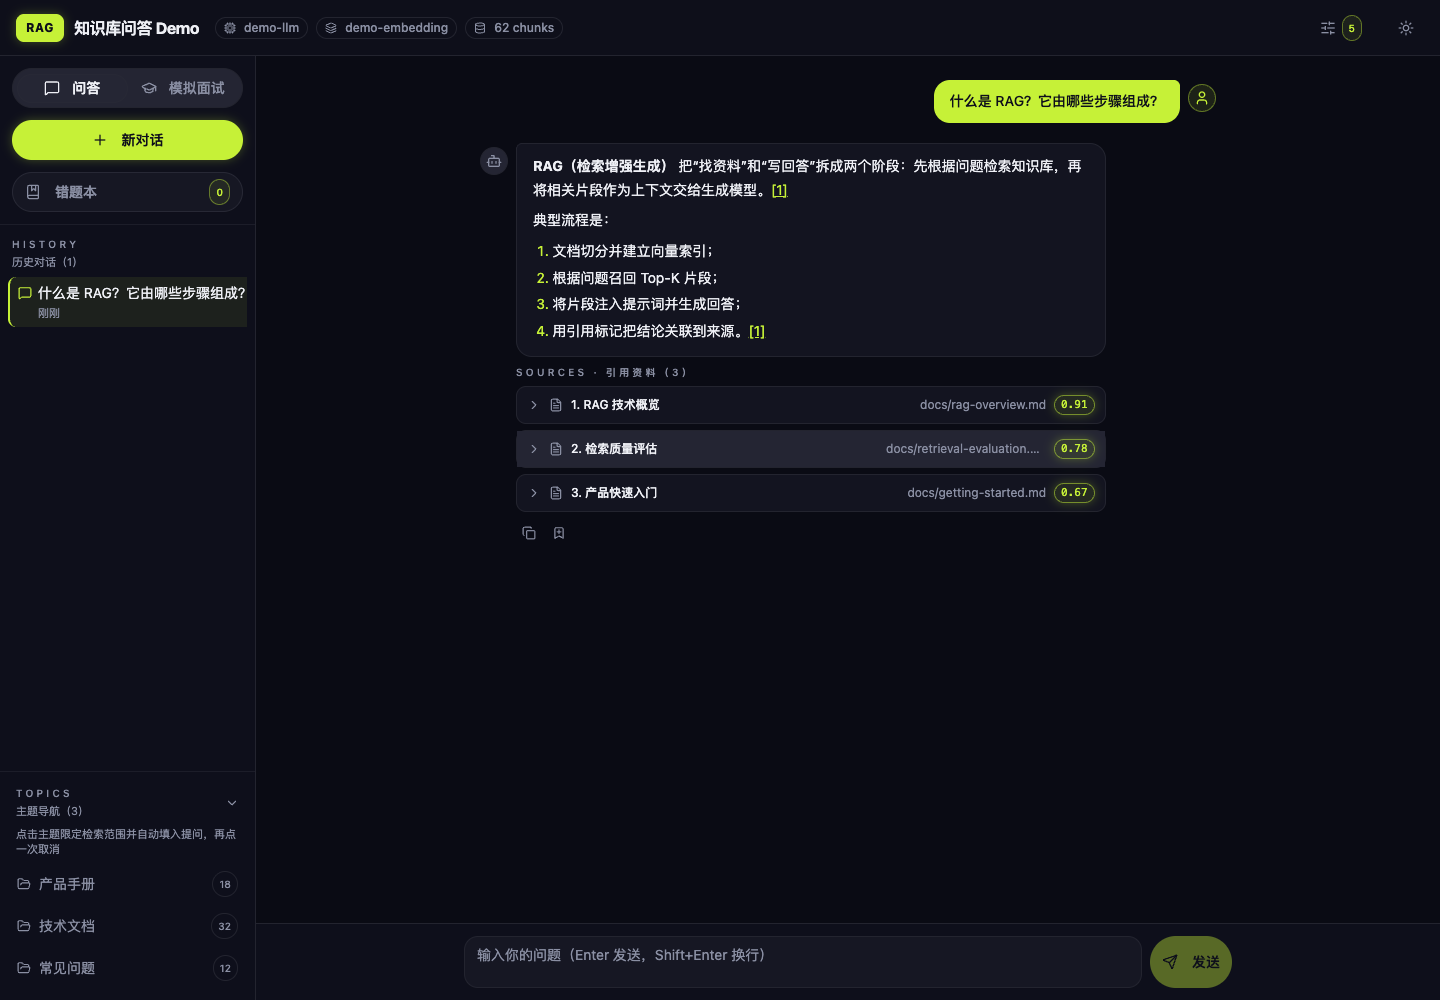
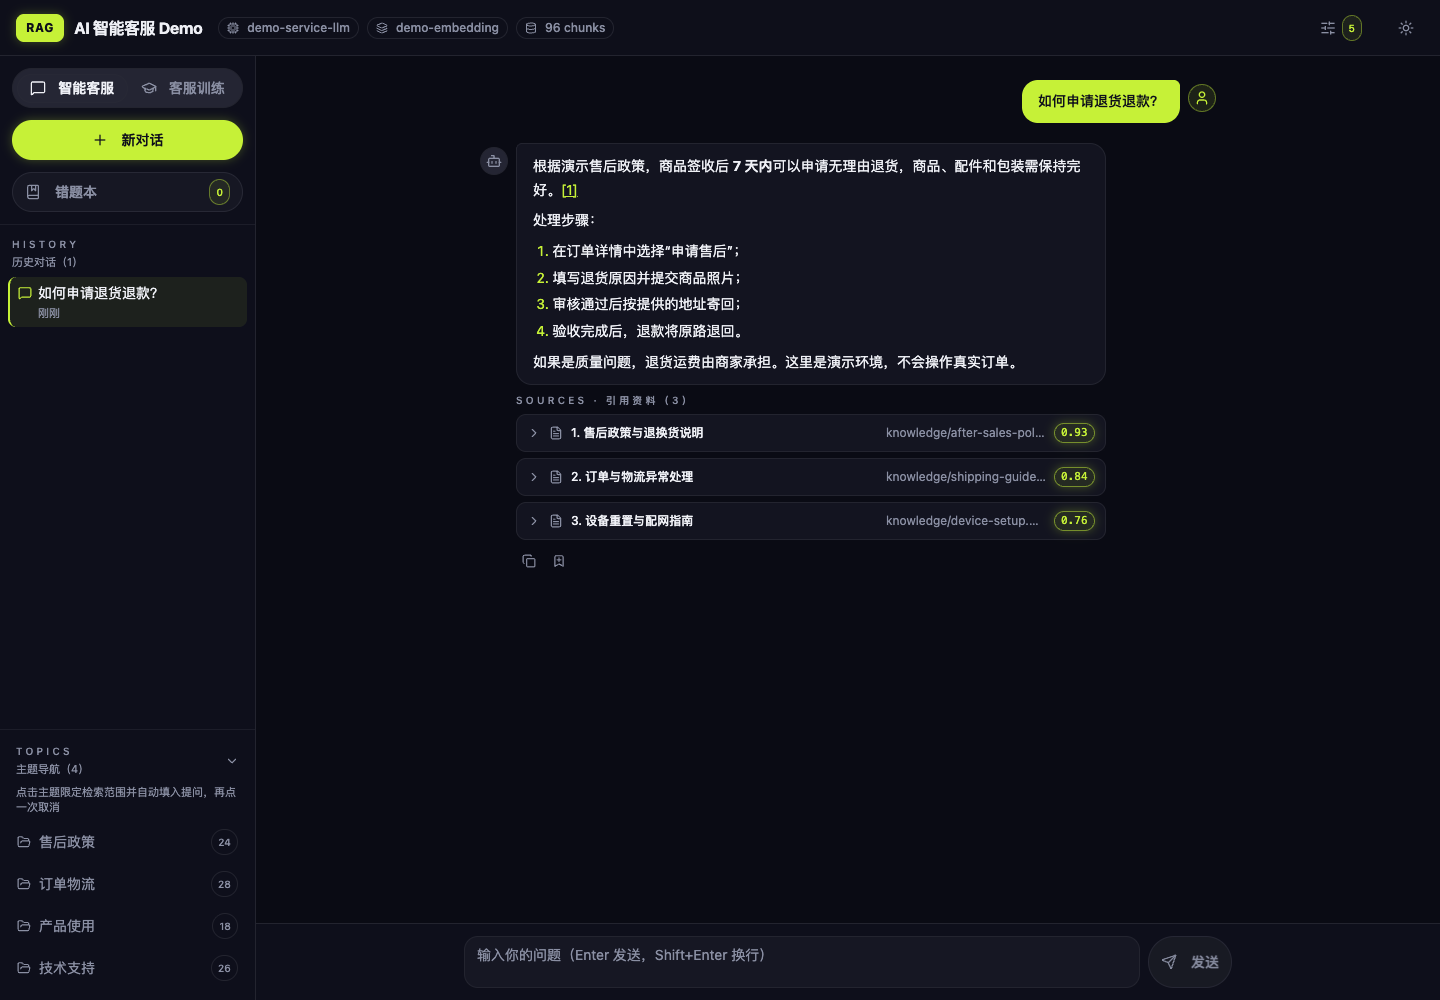
feat: 整理 AI 智能客服场景与演示内容

diff --git a/src/pages/Home.test.tsx b/src/pages/Home.test.tsx
@@ -150,11 +150,11 @@ describe('Home 请求生命周期', () => {
     })
 
     render(<Home />)
-    // 切到模拟面试模式（Radix Tabs 在 mouseDown 时激活）后从空状态直接开考：
+    // 切到客服训练模式（Radix Tabs 在 mouseDown 时激活）后从空状态直接开考：
     // hideUser，会话里只有 assistant 错误消息
     // Tabs 由 meta.modes 驱动，需等 meta 加载
-    fireEvent.mouseDown(await screen.findByRole('tab', { name: /模拟面试/ }))
-    fireEvent.click(await screen.findByRole('button', { name: /综合模拟面试/ }))
+    fireEvent.mouseDown(await screen.findByRole('tab', { name: /客服训练/ }))
+    fireEvent.click(await screen.findByRole('button', { name: /综合客服考核/ }))
 
     await screen.findByText(/检索失败/)
     // 流式收尾完成：停止按钮消失、发送按钮回归
@@ -462,9 +462,9 @@ describe('Home 错题手动收藏：题答配对', () => {
       })
 
     render(<Home />)
-    // 切到模拟面试模式（Radix Tabs 在 mouseDown 时激活）后从空状态直接开考
-    fireEvent.mouseDown(await screen.findByRole('tab', { name: /模拟面试/ }))
-    fireEvent.click(await screen.findByRole('button', { name: /综合模拟面试/ }))
+    // 切到客服训练模式（Radix Tabs 在 mouseDown 时激活）后从空状态直接开考
+    fireEvent.mouseDown(await screen.findByRole('tab', { name: /客服训练/ }))
+    fireEvent.click(await screen.findByRole('button', { name: /综合客服考核/ }))
     await screen.findByText(/什么是 RAG？请简述其核心流程/)
     await waitFor(() =>
       expect(screen.getByRole('button', { name: '发送' })).toBeInTheDocument(),
@@ -627,7 +627,7 @@ describe('Home 元数据驱动', () => {
     // 无面试模式：Tabs / 错题本入口 / 面试引导全部隐藏
     expect(screen.queryByRole('tab')).not.toBeInTheDocument()
     expect(screen.queryByRole('button', { name: /错题本/ })).not.toBeInTheDocument()
-    expect(screen.queryByRole('button', { name: /综合模拟面试/ })).not.toBeInTheDocument()
+    expect(screen.queryByRole('button', { name: /综合客服考核/ })).not.toBeInTheDocument()
   })
 
   it('modes 含 interview：Tabs/错题本/引导卡渲染，引导卡数据来自 meta.interviewGuides', async () => {
@@ -642,11 +642,11 @@ describe('Home 元数据驱动', () => {
     mockStreamChat.mockImplementationOnce(async () => {})
 
     render(<Home />)
-    expect(await screen.findByRole('tab', { name: /模拟面试/ })).toBeInTheDocument()
+    expect(await screen.findByRole('tab', { name: /客服训练/ })).toBeInTheDocument()
     expect(screen.getByRole('button', { name: /错题本/ })).toBeInTheDocument()
 
     // 面试引导卡来自 meta.interviewGuides，点击后以该主题开考
-    fireEvent.mouseDown(screen.getByRole('tab', { name: /模拟面试/ }))
+    fireEvent.mouseDown(screen.getByRole('tab', { name: /客服训练/ }))
     const guideCard = await screen.findByText('Rust 专题面试')
     expect(screen.getByText('限定 rust 主题出题')).toBeInTheDocument()
     fireEvent.click(guideCard)
@@ -655,7 +655,7 @@ describe('Home 元数据驱动', () => {
     expect(mockStreamChat.mock.calls[0][0].topic).toBe('rust')
   })
 
-  it('meta 请求失败：降级默认名「知识库问答」，可正常发送', async () => {
+  it('meta 请求失败：降级默认名「AI 智能客服」，可正常发送', async () => {
     mockFetchMeta.mockRejectedValueOnce(new Error('网络错误'))
     mockStreamChat.mockImplementationOnce(async (_req, _signal, handlers) => {
       handlers.onToken('降级路径的回答')
@@ -663,8 +663,8 @@ describe('Home 元数据驱动', () => {
     })
 
     render(<Home />)
-    expect((await screen.findAllByText('知识库问答')).length).toBeGreaterThanOrEqual(1)
-    await waitFor(() => expect(document.title).toBe('知识库问答'))
+    expect((await screen.findAllByText('AI 智能客服')).length).toBeGreaterThanOrEqual(1)
+    await waitFor(() => expect(document.title).toBe('AI 智能客服'))
     // 默认 modes ['qa']：无 Tabs，可直接提问
     expect(screen.queryByRole('tab')).not.toBeInTheDocument()
     sendQuestion('降级后还能问吗')

diff --git a/src/components/ChatArea.tsx b/src/components/ChatArea.tsx
@@ -185,20 +185,20 @@ export function ChatArea({
                 <div className="rounded-xl border border-border bg-card p-5 text-left transition-colors duration-200 hover:border-primary/50">
                   <div className="flex items-center gap-2 font-semibold text-foreground">
                     <MessageSquare className="h-4 w-4 text-primary" />
-                    问答模式
+                    智能客服
                   </div>
                   <p className="mt-2 text-xs leading-relaxed text-muted-foreground">
-                    直接提问，系统从知识库检索相关内容并生成带引用的回答。点击左侧主题可快速填入提问。
+                    客户直接提问，系统从企业知识库检索政策与产品资料，生成带来源的回答。可点击主题限定咨询范围。
                   </p>
                 </div>
                 {hasInterview && (
                   <div className="rounded-xl border border-border bg-card p-5 text-left transition-colors duration-200 hover:border-primary/50">
                     <div className="flex items-center gap-2 font-semibold text-foreground">
                       <GraduationCap className="h-4 w-4 text-primary" />
-                      模拟面试模式
+                      客服训练
                     </div>
                     <p className="mt-2 text-xs leading-relaxed text-muted-foreground">
-                      系统扮演面试官出题，你作答后会得到点评并进入下一题。可先在左侧选择主题限定出题范围。
+                      系统模拟真实客服考核题，作答后给出标准口径与解析，并自动记录需要复习的题目。
                     </p>
                   </div>
                 )}
@@ -260,7 +260,7 @@ export function ChatArea({
                       className="glow-primary h-11 rounded-full px-8 font-semibold transition-all duration-200 hover:brightness-110"
                     >
                       <Play className="mr-2 h-4 w-4" />
-                      综合模拟面试（不限主题）
+                      综合客服考核（不限主题）
                     </Button>
                   </div>
                 )

diff --git a/src/components/SidePanel.tsx b/src/components/SidePanel.tsx
@@ -67,14 +67,14 @@ export function SidePanelContent({
               className="rounded-full text-muted-foreground transition-all duration-200 data-[state=active]:bg-primary data-[state=active]:font-semibold data-[state=active]:text-primary-foreground data-[state=active]:shadow-none"
             >
               <MessageSquare className="mr-1.5 h-3.5 w-3.5" />
-              问答
+              智能客服
             </TabsTrigger>
             <TabsTrigger
               value="interview"
               className="rounded-full text-muted-foreground transition-all duration-200 data-[state=active]:bg-primary data-[state=active]:font-semibold data-[state=active]:text-primary-foreground data-[state=active]:shadow-none"
             >
               <GraduationCap className="mr-1.5 h-3.5 w-3.5" />
-              模拟面试
+              客服训练
             </TabsTrigger>
           </TabsList>
         </Tabs>

diff --git a/src/components/MistakesPanel.tsx b/src/components/MistakesPanel.tsx
@@ -235,7 +235,7 @@ export function MistakesPanel({ open, onOpenChange, mistakes, kbId, onRetry }: M
               <BookMarked className="h-8 w-8 text-muted-foreground/40" />
               <p className="text-sm text-muted-foreground">错题本还是空的</p>
               <p className="text-xs leading-relaxed text-muted-foreground">
-                模拟面试中答错或表示不会的题会自动收录到这里；也可以点击回答下方的「加入错题本」手动收藏。
+                客服训练中答错或表示不会的题会自动收录到这里；也可以点击回答下方的「加入错题本」手动收藏。
               </p>
             </div>
           ) : visible.length === 0 ? (

diff --git a/index.html b/index.html
@@ -4,9 +4,9 @@
     <meta charset="UTF-8" />
     <meta name="viewport" content="width=device-width, initial-scale=1.0" />
     <meta name="theme-color" content="#11131f" />
-    <meta name="description" content="后端无关的 RAG 聊天工作台，支持流式问答、来源引用、模拟面试和错题复习。" />
+    <meta name="description" content="后端无关的 AI 智能客服工作台，支持流式咨询、来源引用、客服训练和错题复习。" />
     <link rel="icon" type="image/svg+xml" href="/favicon.svg" />
-    <title>知识库问答</title>
+    <title>AI 智能客服</title>
     <script>
       // 防闪烁：首帧前按存储/系统偏好预设 dark class
       try {

diff --git a/src/components/MistakesPanel.test.tsx b/src/components/MistakesPanel.test.tsx
@@ -35,7 +35,7 @@ describe('MistakesPanel', () => {
   it('空列表显示友好空状态', () => {
     render(<MistakesPanel open onOpenChange={noop} kbId="kb1" mistakes={[]} onRetry={noop} />)
     expect(screen.getByText('错题本还是空的')).toBeInTheDocument()
-    expect(screen.getByText(/模拟面试中答错或表示不会的题会自动收录/)).toBeInTheDocument()
+    expect(screen.getByText(/客服训练中答错或表示不会的题会自动收录/)).toBeInTheDocument()
   })
 
   it('列表项显示题目 / 综合标签（topic=null）/ 复习次数，答案默认折叠', () => {

diff --git a/src/pages/Home.tsx b/src/pages/Home.tsx
@@ -40,7 +40,7 @@ const HISTORY_LIMIT = 20
 /** meta 不可用时保留基础问答能力，本地数据使用独立的 default 命名空间。 */
 const FALLBACK_META: KnowledgeMeta = {
   kbId: 'default',
-  appName: '知识库问答',
+  appName: 'AI 智能客服',
   tagline: '',
   modes: ['qa'],
   examples: [],

diff --git a/README.md b/README.md
@@ -1,8 +1,8 @@
-# RAG Chat UI
+# AI 智能客服工作台（RAG Chat UI）
 
-一个后端无关、可独立运行的 RAG 聊天工作台。基于 **React 19 + TypeScript + Vite + Tailwind CSS + shadcn/ui**，支持流式回答、来源引用、模拟面试、错题复习与本地会话管理。
+一个后端无关、可独立运行的 **AI 智能客服前端**。基于 **React 19 + TypeScript + Vite + Tailwind CSS + shadcn/ui**，支持售后咨询、订单物流、产品指导、来源引用、客服训练与本地会话管理。
 
-项目只约定一组简单的 HTTP / SSE 接口，不绑定特定模型、向量数据库或知识库。内置零依赖 Mock API，克隆后无需准备模型或后端即可体验完整流程。
+项目只约定一组简单的 HTTP / SSE 接口，不绑定特定模型、向量数据库或企业知识库。内置零依赖客服演示 API，克隆后无需准备模型或后端即可体验完整流程，也可以接入自己的 RAG 服务。
 
 ## 界面预览
 
@@ -23,15 +23,15 @@
 
 | 能力 | 说明 |
 | --- | --- |
-| 流式问答 | 通过 SSE 展示检索、生成、降级阶段，逐字渲染回答，可随时停止 |
-| 来源引用 | 回答中的 `[n]` 可定位到来源卡片，展示相关度并提示低相关结果 |
-| 模拟面试 | 支持综合或主题面试、连续出题、答案解析与“再考我一次” |
-| 错题本 | 自动收录与手动收藏，支持主题筛选、复习计数和掌握状态管理 |
-| 会话管理 | 新建、切换、删除历史会话；最多保存 50 个会话，刷新后自动恢复 |
-| 知识库隔离 | 以 `kbId` 隔离不同知识库的会话和错题，避免本地数据互相污染 |
-| 主题与检索设置 | 主题过滤、Top-K 1–10 调整、明暗主题切换并记忆偏好 |
+| 智能咨询 | 通过 SSE 展示检索、生成、降级阶段，逐字回答售后、物流与产品问题，可随时停止 |
+| 来源可核验 | 回答中的 `[n]` 可定位到政策或产品资料，展示相关度并提示低相关结果 |
+| 客服训练 | 支持综合或专题考核、连续出题、标准口径解析与“再考我一次” |
+| 错题复习 | 自动收录与手动收藏，支持主题筛选、复习计数和掌握状态管理 |
+| 会话管理 | 新建、切换、删除历史咨询；最多保存 50 个会话，刷新后自动恢复 |
+| 知识库隔离 | 以 `kbId` 隔离不同企业或业务线的会话和错题，避免本地数据互相污染 |
+| 业务主题与检索 | 按售后政策、订单物流等主题过滤，Top-K 1–10 调整，支持明暗主题 |
 | 健壮交互 | 请求所有权隔离、失败重试、手动停止、中文输入法与移动端适配 |
-| 元数据驱动 | 应用名、标语、模式、示例问题和面试引导均由后端 `/api/meta` 提供 |
+| 元数据驱动 | 品牌、标语、业务模式、示例问题和训练引导均由后端 `/api/meta` 提供 |
 
 ## 30 秒本地体验
 
@@ -48,10 +48,10 @@ npm run dev:mock
 
 可以尝试：
 
-1. 点击示例问题，观察流式回答与来源引用；
-2. 切换“模拟面试”，开始综合或专题面试；
-3. 回答“我不会”，查看解析并打开错题本复习；
-4. 新建对话、切换主题或调整 Top-K，刷新页面验证状态恢复。
+1. 点击“如何申请退货退款？”，观察流式回答与政策来源；
+2. 选择“订单物流”主题，咨询物流超过 48 小时未更新的处理方式；
+3. 切换“客服训练”，开始综合或专题考核并查看标准口径；
+4. 打开错题本复习，或新建咨询、调整 Top-K 后刷新页面验证状态恢复。
 
 ## 接入自己的 RAG 后端
 
@@ -68,6 +68,10 @@ npm run dev
 开发服务器会把 `/api/*` 代理到 `VITE_API_TARGET`，因此前端不需要处理跨域。生产构建使用同源 `/api/*`，请在网关或 Web 服务器上将这组路径反向代理到后端。
 
 > 本项目是前端仓库，不包含文档切分、Embedding、向量检索或模型推理实现。
+
+## 演示边界
+
+内置售后政策、商品和订单内容均为虚构演示数据，不能作为真实业务承诺。当前版本**不连接真实订单、支付、人工坐席或工单系统**，也不会执行退款、改单等操作；这些动作需要由你的后端鉴权并对接相应业务系统。
 
 ## 常用命令
 

diff --git a/docs/design.md b/docs/design.md
@@ -15,16 +15,16 @@
 
 ```json
 {
-  "kbId": "demo",
-  "appName": "知识库问答 Demo",
-  "tagline": "一个后端无关、可流式交互的 RAG 聊天工作台",
+  "kbId": "customer-service-demo",
+  "appName": "AI 智能客服 Demo",
+  "tagline": "基于企业知识库，为客户提供可追溯的即时解答",
   "modes": ["qa", "interview"],
-  "examples": ["什么是 RAG？"],
+  "examples": ["如何申请退货退款？"],
   "interviewGuides": [
     {
-      "title": "RAG 专题面试",
-      "desc": "围绕检索、生成与评估连续出题",
-      "topic": "技术文档"
+      "title": "售后政策考核",
+      "desc": "检验退换货政策与沟通口径",
+      "topic": "售后政策"
     }
   ]
 }
@@ -43,12 +43,12 @@
 
 ```json
 {
-  "chunks": 62,
-  "llm_model": "demo-llm",
+  "chunks": 96,
+  "llm_model": "demo-service-llm",
   "embed_model": "demo-embedding",
   "topics": [
-    { "name": "产品手册", "count": 18 },
-    { "name": "技术文档", "count": 32 }
+    { "name": "售后政策", "count": 24 },
+    { "name": "订单物流", "count": 28 }
   ]
 }
 ```
@@ -60,10 +60,10 @@
 ```json
 {
   "status": "ready",
-  "index": { "ok": true, "chunks": 62, "error": null },
+  "index": { "ok": true, "chunks": 96, "error": null },
   "llm": {
     "ok": true,
-    "model": "demo-llm",
+    "model": "demo-service-llm",
     "base": "http://localhost:11434",
     "error": null
   }

diff --git a/docs/components.md b/docs/components.md
@@ -32,7 +32,7 @@ App
 - 按 `kbId` 恢复、保存、切换和删除会话；
 - 维护当前模式、主题、Top-K、输入与消息；
 - 管理请求所有权、停止、错误重试与流式阶段；
-- 在面试回答完成后提取并自动收录错题；
+- 在客服训练回答完成后提取并自动收录错题；
 - 向桌面侧栏与移动抽屉提供同一份状态和回调。
 
 ### `TopBar`
